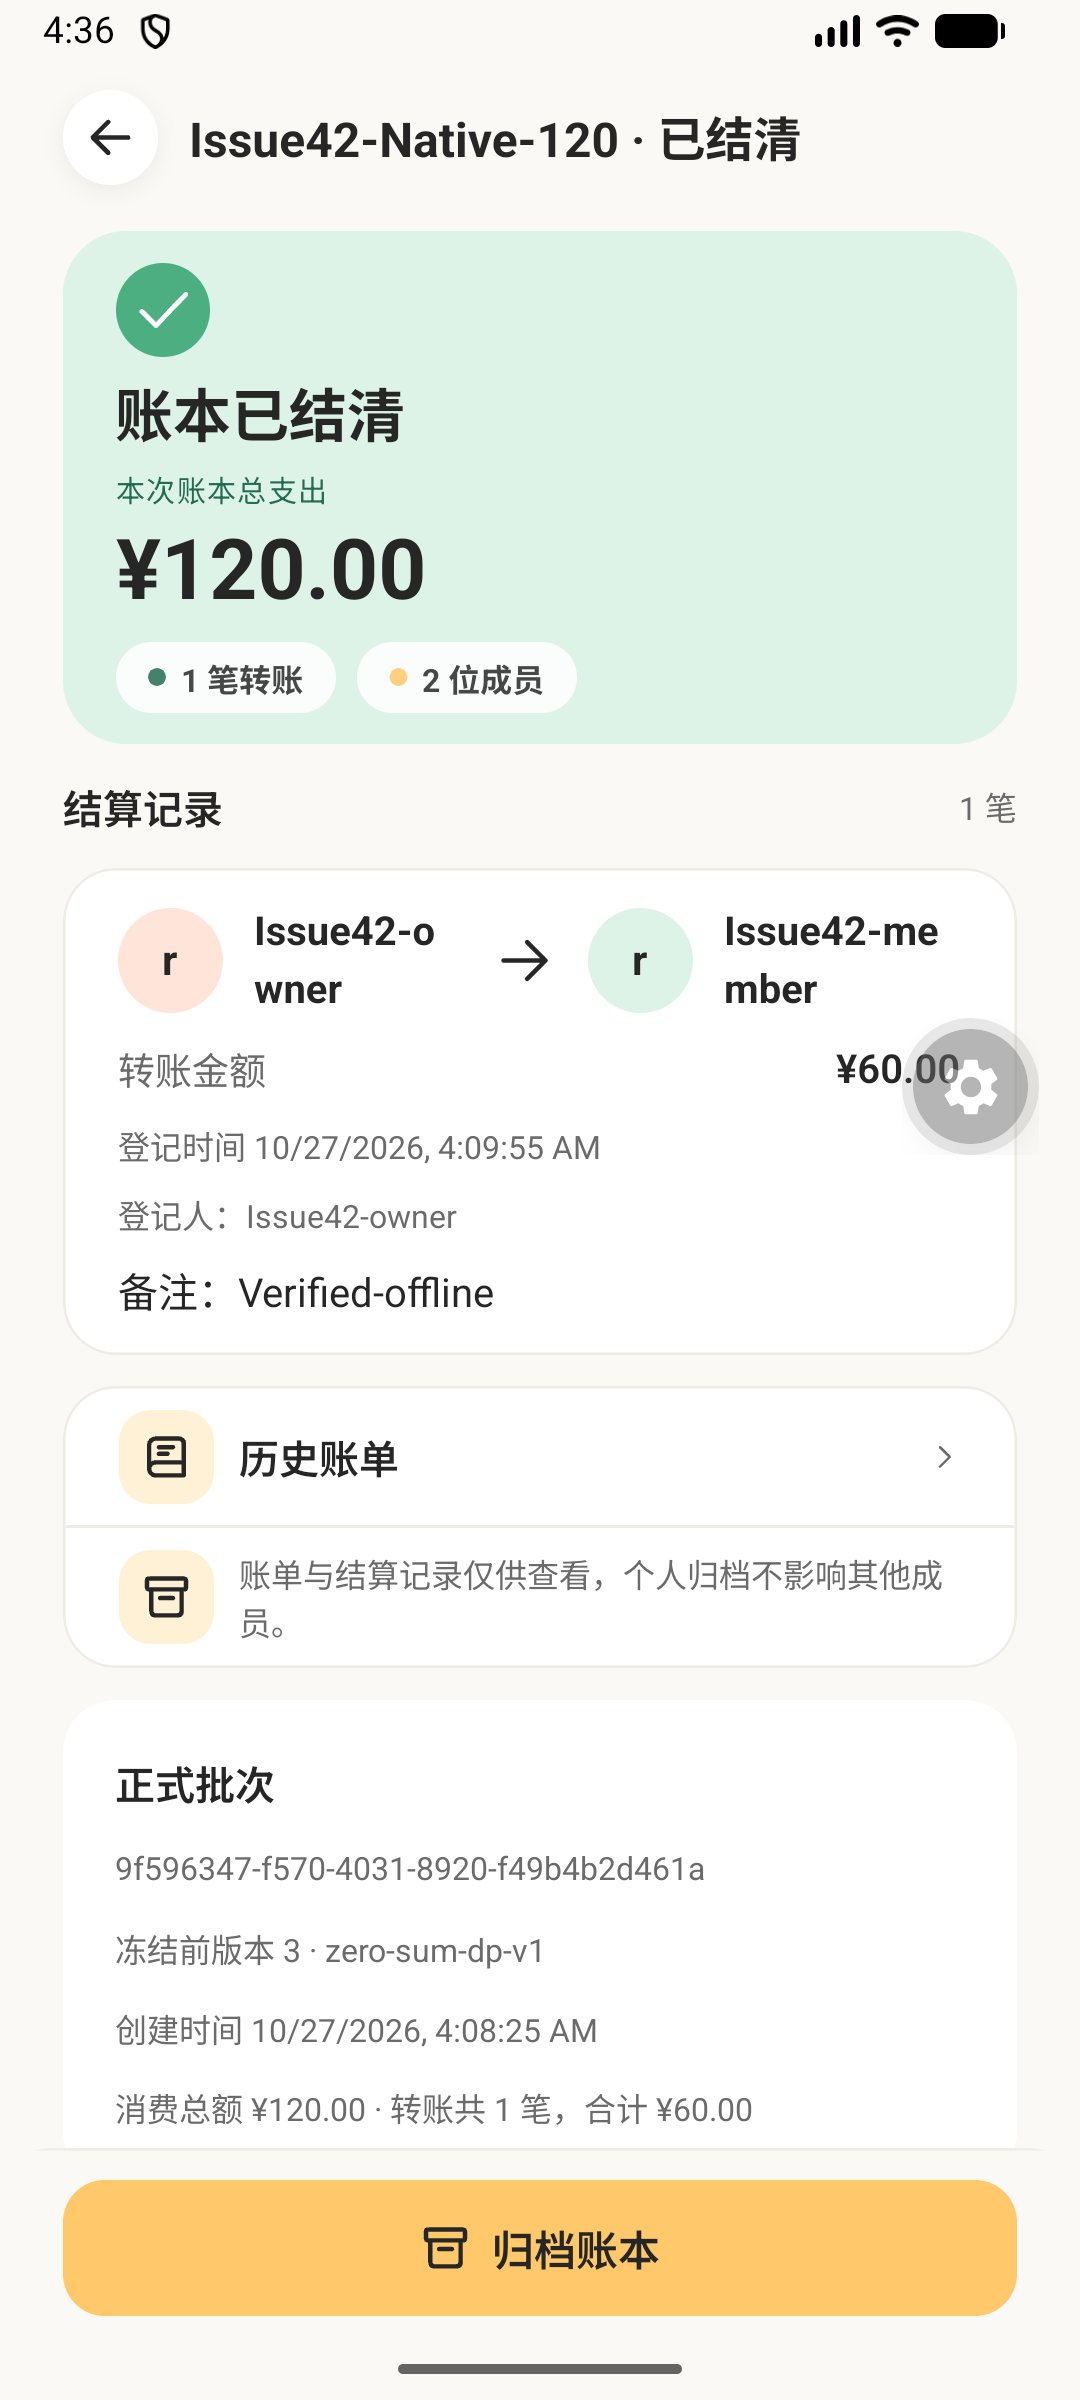
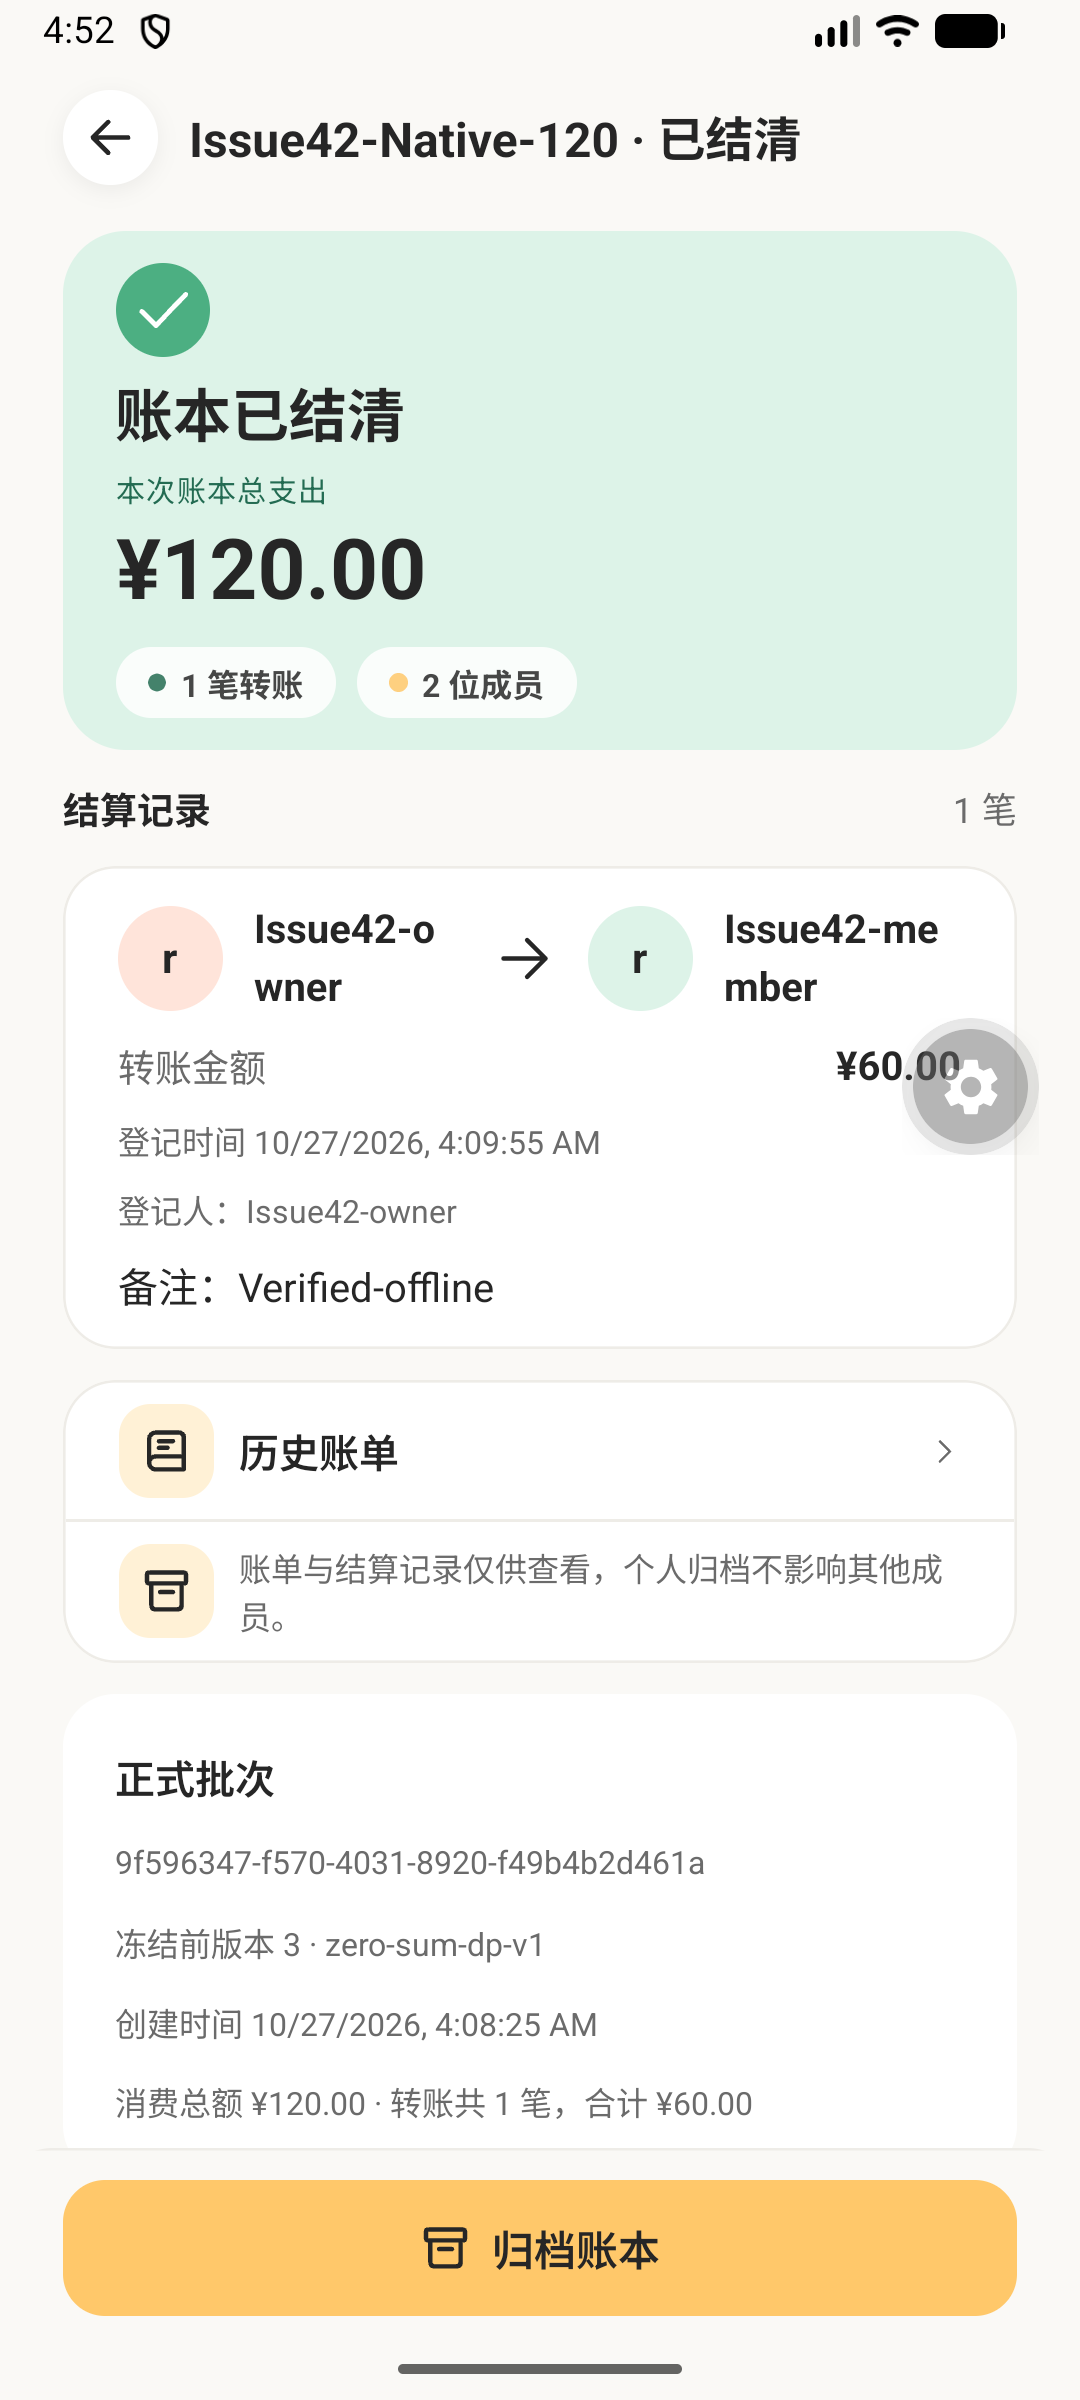
docs: refresh native screenshots after settlement typography fixes

diff --git a/docs/pr50-review-validation.md b/docs/pr50-review-validation.md
@@ -2,7 +2,7 @@
 
 2026-10-27，复核 [PR #50](https://github.com/Liangbai2333/tongzhang/pull/50) 的权限、幂等恢复和指定 Figma 对齐。在原分支 `feat/42-settlement-cover` 修复，不改写既有提交、不合并。原始完整业务验收见 [Issue #42 验证记录](issue42-mobile-completion-validation.md)。
 
-最终代码修复提交为 `75325d9`。截图采集于本轮修复工作区；截图后补充的详情归档状态隔离及导航配置不改变所示建账、结算与登记面板。
+逻辑修复提交为 `75325d9`，最终排版修复提交为 `f46ed0c`。01、02、07 截图在最终排版提交后更新，03–06 的建账界面与该提交一致。
 
 ## 发现与修复
 
@@ -52,5 +52,7 @@
 | 显式设置 `TEST_DATABASE_URL` 后 `pnpm test:integration` | 独立 `tongzhang_issue42_test`，14 文件 / 128 项通过 |
 | `pnpm export:mobile`                                    | Android/iOS JavaScript 导出通过                     |
 | `NODE_USE_ENV_PROXY=1 pnpm doctor:mobile`               | 21/21 通过                                          |
+
+完整 226 项组件/Hook 测试通过后，最终详情导航调整另跑 66 项账本测试，最终字重与行高调整另跑 50 项结算/恢复测试；均通过。最终 `pnpm check` 与双端导出包含所有排版调整。
 
 命令日志、修复前失败摘录、源码及截图哈希保存在 [复核证据目录](evidence/issue50-review)。没有物理真机或 iOS 原生安装验收；组件测试、JS 导出和 Android 原生操作分别记录。未修改 Issue 完成状态或剩余点数，等待系统架构负责人审核，不合并 PR。
